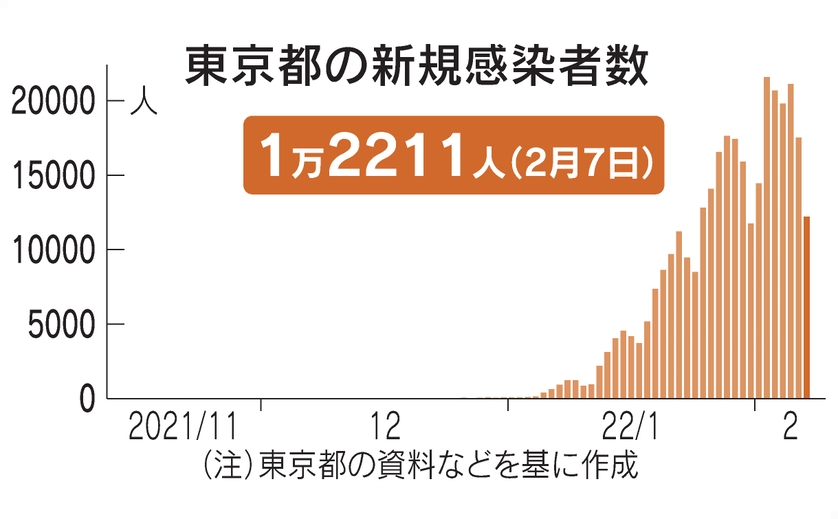
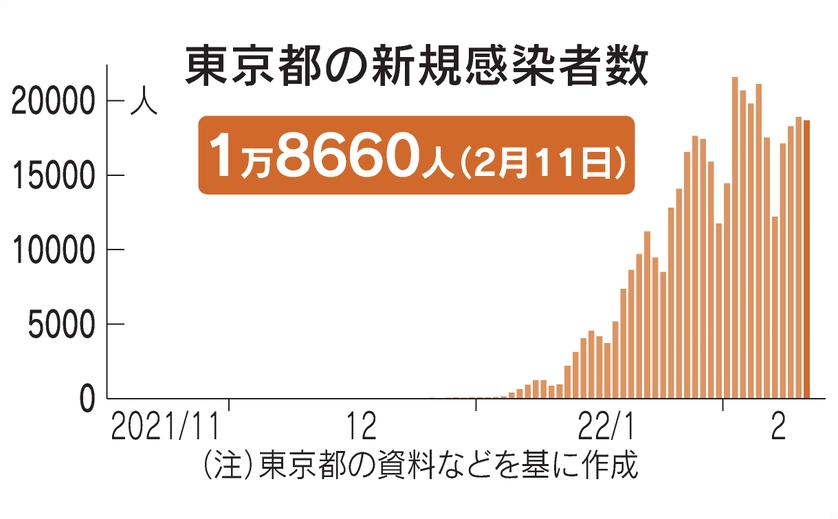
regular update

diff --git a/parts/news.php b/parts/news.php
@@ -40,6 +40,82 @@
         </li> 
 
     <hr> -->
+         2022年02月11日
+    
+        <li>
+                <i class="far fa-file-alt"></i>
+                <a href="https://www.nikkei.com/article/DGXZQOCC111JC0R10C22A2000000/" target="blank" rel="noopener">
+                東京都、新たに1万8660人感染　7日平均で前週の101.8%</a>
+        </li>
+         <li>
+                <i class="far fa-file-alt"></i>
+                <a href="https://www.nikkei.com/article/DGXZQOCC113510R10C22A2000000/" target="blank" rel="noopener">
+                コロナ死者、国内累計2万人超　オミクロンで増加傾向</a>
+        </li>
+        <li>
+                <i class="far fa-file-alt"></i>
+                <a href="https://www.nikkei.com/article/DGXZQOUA106MW0Q2A210C2000000/" target="blank" rel="noopener">
+                ファイザー製飲み薬承認　コロナ軽症・中等症患者向け まず4万人分</a>
+        </li> 
+
+    <hr>
+         2022年02月10日
+    
+        <li>
+                <i class="far fa-file-alt"></i>
+                <a href="https://www.nikkei.com/article/DGXZQOCC1076P0Q2A210C2000000/" target="blank" rel="noopener">
+                東京都、新たに1万8891人感染　7日平均で前週の104.6%</a>
+        </li>
+         <li>
+                <i class="far fa-file-alt"></i>
+                <a href="https://www.nikkei.com/article/DGXZQOCC102ID0Q2A210C2000000/" target="blank" rel="noopener">
+                東京の感染拡大ペース鈍化　ピークアウト「時期読めず」</a>
+        </li>
+        <li>
+                <i class="far fa-file-alt"></i>
+                <a href="https://www.nikkei.com/article/DGXZQOUF100RS0Q2A210C2000000/" target="blank" rel="noopener">
+                塩野義、鼻に噴霧するコロナワクチン　千葉大と開発へ</a>
+        </li> 
+
+    <hr>
+         2022年02月09日
+    
+        <li>
+                <i class="far fa-file-alt"></i>
+                <a href="https://www.nikkei.com/article/DGXZQOCC0943O0Z00C22A2000000/" target="blank" rel="noopener">
+                東京都、新たに1万8287人感染　7日平均で前週の109.9%</a>
+        </li>
+         <li>
+                <i class="far fa-file-alt"></i>
+                <a href="https://www.nikkei.com/article/DGXZQOGN090B00Z00C22A2000000/" target="blank" rel="noopener">
+                世界のコロナ感染者4億人に　オミクロン型で急増</a>
+        </li>
+        <li>
+                <i class="far fa-file-alt"></i>
+                <a href="https://www.nikkei.com/article/DGXZQOUA08DU90Y2A200C2000000/" target="blank" rel="noopener">
+                13都県のまん延防止延長へ、午後に閣僚協議　高知は追加</a>
+        </li> 
+
+    <hr>
+         2022年02月08日
+    
+        <li>
+                <i class="far fa-file-alt"></i>
+                <a href="https://www.nikkei.com/article/DGXZQOCC080EX0Y2A200C2000000/" target="blank" rel="noopener">
+                東京都、新たに1万7113人感染　7日平均で前週の120.6%</a>
+        </li>
+         <li>
+                <i class="far fa-file-alt"></i>
+                <a href="https://www.nikkei.com/article/DGXZQOUC04BGX0U2A200C2000000/" target="blank" rel="noopener">
+                オミクロン派生型、50カ国超で確認　流行長引く要因か</a>
+        </li>
+        <li>
+                <i class="far fa-file-alt"></i>
+                <a href="https://www.nikkei.com/article/DGXZQOCC082340Y2A200C2000000/" target="blank" rel="noopener">
+                東京都、濃厚接触者に抗原検査キット配布</a>
+        </li> 
+
+    <hr>
          2022年02月07日
     
         <li>
